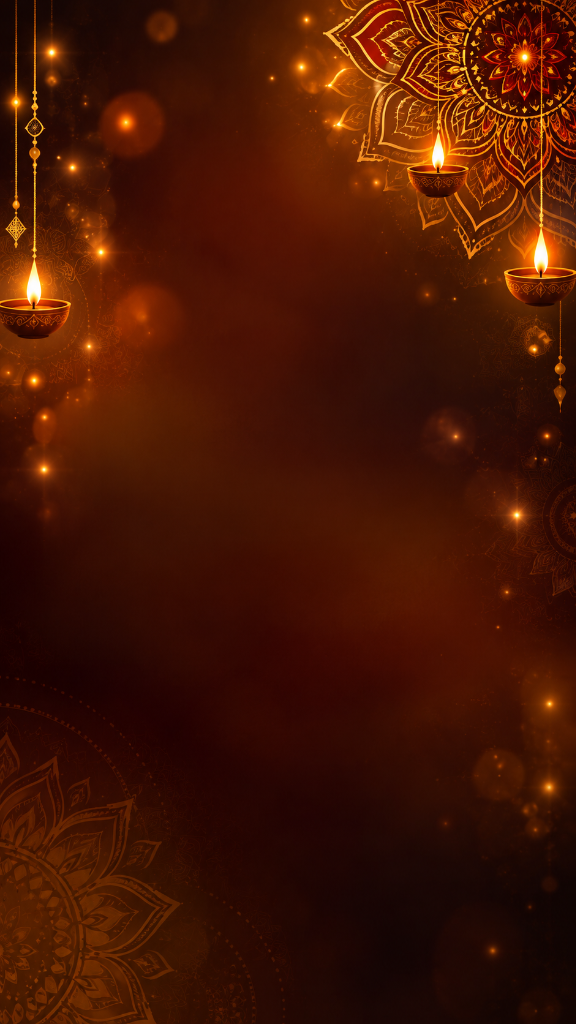
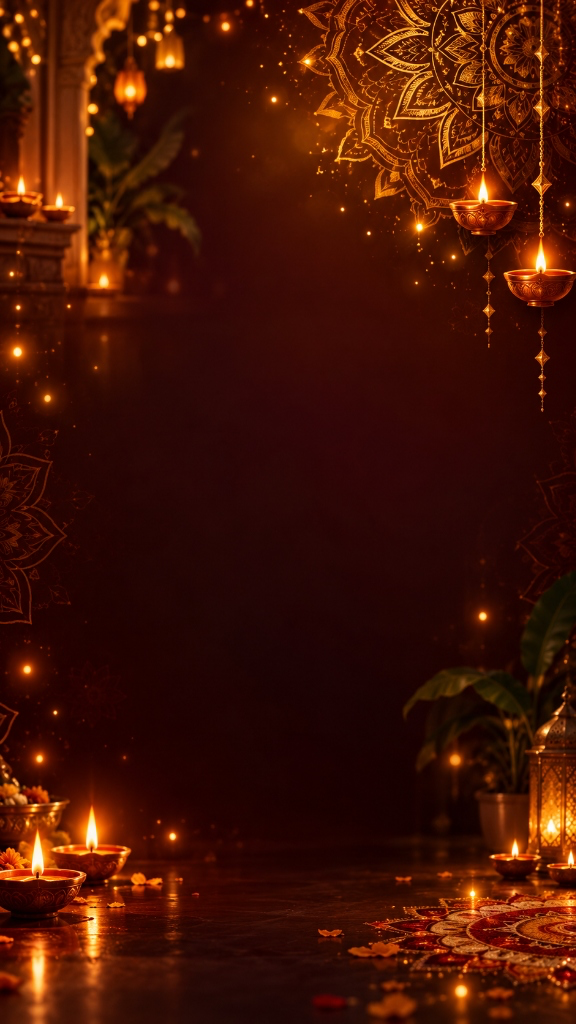
feat(theme-diwali): visual integration of approved Diwali background asset & warm hospitality glass tokens
- Integrate approved high-resolution portrait Diwali background asset (/themes/diwali-bg.jpg)
- Implement custom warm mahogany readability scrim preserving upper hanging diyas/mandala and bottom floor reflections
- Apply dark translucent warm-brown glass tokens with burnished gold/amber accents and clear channel separation
- Refine CTA and button shadows to blend seamlessly with dark warm glass
- Preserve canonical 11-step mobile hierarchy without adding restaurant logos or altering business logic
- Add comprehensive automated integration test suite (diwali-theme-integration.test.tsx) with 100% pass rate

diff --git a/tests/unit/diwali-theme-integration.test.tsx b/tests/unit/diwali-theme-integration.test.tsx
@@ -1,0 +1,250 @@
+import React from 'react';
+import { describe, it, expect } from 'vitest';
+import { renderToStaticMarkup } from 'react-dom/server';
+import fs from 'fs';
+import path from 'path';
+import {
+  THEME_REGISTRY,
+  getRegisteredThemes,
+  resolveCustomerTheme,
+  themeToCssVariables,
+} from '@/lib/themes';
+import { CustomerShell } from '@/components/customer/ui/CustomerShell';
+import { CustomerPlatformBrand } from '@/components/customer/CustomerPlatformBrand';
+import { RestaurantHeader } from '@/components/customer/RestaurantHeader';
+import { QueueStatusCard } from '@/components/customer/QueueStatusCard';
+import { HospitalityFeatureRow } from '@/components/customer/HospitalityFeatureRow';
+import { SignatureDishesCard } from '@/components/customer/SignatureDishesCard';
+import type { PublicRestaurantInfo } from '@/lib/services/public-restaurant-service';
+
+const MOCK_DIWALI_RESTAURANT: PublicRestaurantInfo = {
+  id: '25516c44-9f33-4752-9c05-419633d5ba66',
+  name: 'Biriyani House',
+  slug: 'biriyani-house',
+  description: 'Good Food. Brighter Days.',
+  phone: '+91 98765 43210',
+  address: '12 Park Street',
+  city: 'Kolkata',
+  logoUrl: 'https://example.com/logo.png', // Logo present in DB but MUST NOT be rendered
+  queueEnabled: true,
+  queueOperatingState: 'OPEN',
+  maxQueueCapacity: 50,
+  minPartySize: 1,
+  maxPartySize: 10,
+  callTimeoutMinutes: 5,
+  status: 'ACTIVE',
+  currency: 'INR',
+  avgServiceTimeMins: 15,
+  serviceCapacityUnits: 3,
+  etaBufferMins: 5,
+  takeawayEnabled: true,
+  dineInCustomerOrderingEnabled: true,
+  dineInStaffOrderingEnabled: true,
+  takeawayCustomerOrderingEnabled: true,
+  takeawayStaffOrderingEnabled: true,
+  takeawayManualOrderingEnabled: false,
+  customerThemeKey: 'diwali',
+};
+
+describe('QueueFlow — Diwali Theme Visual Integration', () => {
+  describe('1. Diwali Theme Registration & Token Resolution', () => {
+    it('registers diwali in canonical THEME_REGISTRY', () => {
+      const diwali = THEME_REGISTRY['diwali'];
+      expect(diwali).toBeDefined();
+      expect(diwali!.key).toBe('diwali');
+      expect(diwali!.name).toBe('Diwali');
+    });
+
+    it('resolves diwali theme by key and case-insensitively', () => {
+      const resolved = resolveCustomerTheme('diwali');
+      expect(resolved.key).toBe('diwali');
+
+      const upperResolved = resolveCustomerTheme('DIWALI');
+      expect(upperResolved.key).toBe('diwali');
+
+      const paddedResolved = resolveCustomerTheme('  diwali  ');
+      expect(paddedResolved.key).toBe('diwali');
+    });
+
+    it('defines warm-brown translucent glass surfaces and burnished gold accents', () => {
+      const diwali = resolveCustomerTheme('diwali');
+      const { surfaces, accents, borders, text } = diwali.tokens;
+
+      // Dark translucent warm-brown glass
+      expect(surfaces.background).toBe('#140602');
+      expect(surfaces.surface).toContain('rgba');
+      expect(surfaces.surfaceSolid).toBe('#1c0c05');
+
+      // Warm golden amber CTA
+      expect(accents.primary).toBe('#f59e0b');
+      expect(accents.primaryForeground).toBe('#140602');
+      expect(accents.accentDineIn).toBe('#c2410c');
+      expect(accents.accentTakeaway).toBe('#f59e0b');
+
+      // Burnished gold borders
+      expect(borders.border).toContain('234, 179, 8');
+
+      // High contrast text
+      expect(text.text).toBe('#fff9f0');
+      expect(text.textSecondary).toBe('#edd7be');
+    });
+
+    it('maps all diwali tokens to CSS custom properties (--qf-*)', () => {
+      const diwali = resolveCustomerTheme('diwali');
+      const cssVars = themeToCssVariables(diwali) as Record<string, string>;
+
+      expect(cssVars['--qf-background']).toBe('#140602');
+      expect(cssVars['--qf-primary']).toBe('#f59e0b');
+      expect(cssVars['--qf-primary-foreground']).toBe('#140602');
+      expect(cssVars['--qf-accent-dine-in']).toBe('#c2410c');
+      expect(cssVars['--qf-accent-takeaway']).toBe('#f59e0b');
+      expect(cssVars['--qf-text']).toBe('#fff9f0');
+    });
+  });
+
+  describe('2. Background Asset & Scrim Integration', () => {
+    it('defines local static background asset and custom warm readability scrim', () => {
+      const diwali = resolveCustomerTheme('diwali');
+      expect(diwali.artwork).toBeDefined();
+      expect(diwali.artwork?.backgroundImage).toBe('/themes/diwali-bg.jpg');
+      expect(diwali.artwork?.scrim).toBeDefined();
+      expect(diwali.artwork?.scrim).toContain('linear-gradient');
+      expect(diwali.artwork?.scrim).toContain('rgba(20, 7, 3');
+    });
+
+    it('static background asset exists in public directory and is optimized (< 500KB)', () => {
+      const publicPath = path.join(process.cwd(), 'public', 'themes', 'diwali-bg.jpg');
+      expect(fs.existsSync(publicPath)).toBe(true);
+
+      const stats = fs.statSync(publicPath);
+      expect(stats.size).toBeGreaterThan(50 * 1024); // Non-empty image (> 50KB)
+      expect(stats.size).toBeLessThan(500 * 1024); // Optimized (< 500KB)
+    });
+
+    it('renders background image and scrim as fixed non-blocking layers in CustomerShell', () => {
+      const diwali = resolveCustomerTheme('diwali');
+      const html = renderToStaticMarkup(
+        <CustomerShell theme={diwali}>
+          <div>Diwali Customer Content</div>
+        </CustomerShell>
+      );
+
+      // Background image layer
+      expect(html).toContain('src="/themes/diwali-bg.jpg"');
+      expect(html).toContain('aria-hidden="true"');
+      expect(html).toContain('pointer-events-none');
+      expect(html).toContain('fixed inset-0');
+      expect(html).toContain('object-cover');
+
+      // Scrim layer
+      expect(html).toContain('background:linear-gradient');
+      expect(html).toContain('rgba(20, 7, 3');
+
+      // Content sits above background
+      expect(html).toContain('Diwali Customer Content');
+    });
+  });
+
+  describe('3. Fallback Behavior & Multi-Theme Isolation', () => {
+    it('falls back cleanly to default theme when key is invalid or null', () => {
+      const nullTheme = resolveCustomerTheme(null);
+      expect(nullTheme.key).toBe('default');
+      expect(nullTheme.artwork?.backgroundImage).toBeUndefined();
+
+      const invalidTheme = resolveCustomerTheme('non-existent-theme-xyz');
+      expect(invalidTheme.key).toBe('default');
+    });
+
+    it('CustomerShell renders graceful ambient fallback when background image is absent', () => {
+      const defaultTheme = resolveCustomerTheme('default');
+      const html = renderToStaticMarkup(
+        <CustomerShell theme={defaultTheme}>
+          <div>Default Content</div>
+        </CustomerShell>
+      );
+
+      // No image tag for default theme
+      expect(html).not.toContain('<img');
+      expect(html).toContain('Default Content');
+      expect(html).toContain('qf-bg');
+    });
+
+    it('preserves all other 10 themes in THEME_REGISTRY without modification', () => {
+      const themes = getRegisteredThemes();
+      expect(themes).toHaveLength(11);
+
+      const expectedOtherKeys = [
+        'default',
+        'durga-puja',
+        'kali-puja',
+        'holi',
+        'christmas',
+        'valentines-day',
+        'poila-boishakh',
+        'happy-new-year',
+        'happy-hour',
+        'weekend-special',
+      ];
+
+      for (const key of expectedOtherKeys) {
+        const theme = THEME_REGISTRY[key];
+        expect(theme).toBeDefined();
+        expect(theme!.key).toBe(key);
+      }
+    });
+  });
+
+  describe('4. Canonical Mobile Layout Preservation & Accessibility Invariants', () => {
+    it('renders all canonical components under Diwali theme with NO restaurant logo', () => {
+      const diwali = resolveCustomerTheme('diwali');
+      const html = renderToStaticMarkup(
+        <CustomerShell theme={diwali}>
+          <CustomerPlatformBrand />
+          <RestaurantHeader restaurant={MOCK_DIWALI_RESTAURANT} waitingCount={2} />
+          <QueueStatusCard state="OPEN" waitingCount={2} waitLabel="~15 mins" />
+          <HospitalityFeatureRow />
+          <SignatureDishesCard slug="biriyani-house" categories={[]} />
+        </CustomerShell>
+      );
+
+      // 1. Platform Brand
+      expect(html).toContain('ASSO');
+      expect(html).toContain('QueueFlow');
+
+      // 2. Restaurant Hero
+      expect(html).toContain('Biriyani House');
+      expect(html).toContain('Good Food. Brighter Days.');
+      // Crucial: Restaurant logo must NOT be rendered
+      expect(html).not.toContain('https://example.com/logo.png');
+
+      // 3. Queue Status
+      expect(html).toContain('2 parties waiting in line');
+      expect(html).toContain('Estimated wait: ~15 mins');
+
+      // 4. Feature row
+      expect(html).toContain('Live Updates');
+      expect(html).toContain('Authentic Flavours');
+      expect(html).toContain('Warm Hospitality');
+
+      // 5. Signature Dishes
+      expect(html).toContain('Our Signature Dishes');
+
+      // 6. Footer
+      expect(html).toContain('Food Brings Us Closer');
+      expect(html).toContain('Powered by');
+    });
+
+    it('theme motif has aria-hidden="true" and decorative-only semantics', () => {
+      const diwali = resolveCustomerTheme('diwali');
+      const html = renderToStaticMarkup(
+        <CustomerShell theme={diwali}>
+          <div>Accessible Shell</div>
+        </CustomerShell>
+      );
+
+      expect(html).toContain('data-theme="diwali"');
+      expect(html).toContain('aria-hidden="true"');
+      expect(html).toContain('pointer-events-none');
+    });
+  });
+});

diff --git a/src/lib/themes/definitions/diwali.ts b/src/lib/themes/definitions/diwali.ts
@@ -1,21 +1,23 @@
 import type { CustomerTheme } from '../types';
 
 /**
- * Diwali Festival Theme — Premium Immersive Edition.
+ * Diwali Festival Theme — Premium Hospitality Edition.
  *
  * Visual Direction:
- * Based on the supplied reference image:
- *   - Deep mahogany-burgundy background (#1a0800 family)
- *   - Amber / molten-gold radial glow at centre
- *   - Hanging diya lamps with live flame highlights
- *   - Intricate gold mandala rangoli in corners
- *   - Soft bokeh light particles (amber / ochre)
+ * Based on the approved Diwali reference asset:
+ *   - Deep maroon/mahogany shadow regions (#140602 / #1c0c05)
+ *   - Warm golden lighting & molten brass glow
+ *   - Traditional rangoli / mandala artwork
+ *   - Hanging brass diya lamps & glowing flame highlights
+ *   - Soft bokeh light particles
+ *   - Dark central negative space for UI readability
  *
- * The full-bleed reference photo is applied as the primary background layer.
- * A translucent scrim preserves UI legibility while keeping the artwork visible.
- *
- * Color tokens are derived directly from the image palette so that surfaces,
- * cards, and interactive states all harmonise with the photographic background.
+ * Architecture:
+ * 1. Background: High-resolution optimized portrait asset (/themes/diwali-bg.jpg)
+ * 2. Readability Scrim: Custom warm maroon-tinted gradient preserving decorative edges
+ * 3. Glass Surfaces: Dark translucent warm-brown glass with controlled blur
+ * 4. Accents: Warm burnished gold / amber CTA and status highlights (high contrast, zero neon)
+ * 5. Motif: Subtle rangoli overlay at restrained opacity for secondary surfaces
  */
 export const DIWALI_THEME: CustomerTheme = {
   key: 'diwali',
@@ -24,39 +26,33 @@ export const DIWALI_THEME: CustomerTheme = {
     'Immersive Diwali festival atmosphere — glowing diyas, gold mandala rangoli, and warm amber bokeh set against a deep mahogany backdrop.',
   tokens: {
     surfaces: {
-      // Deep mahogany drawn directly from the image shadow regions
-      background: '#1a0800',
-      backgroundElevated: '#260d02',
-      // Semi-transparent so the photo bleeds through slightly
-      surface: 'rgba(30, 12, 3, 0.82)',
-      surfaceSolid: '#2a0e04',
-      surfaceElevated: 'rgba(42, 18, 5, 0.88)',
-      surfaceInteractive: '#381508',
+      background: '#140602',
+      backgroundElevated: '#1f0a04',
+      surface: 'rgba(26, 11, 5, 0.82)',
+      surfaceSolid: '#1c0c05',
+      surfaceElevated: 'rgba(38, 16, 7, 0.90)',
+      surfaceInteractive: '#341608',
     },
     accents: {
-      // Molten gold / amber — the lamp flame and glow colour
-      primary: '#f5a623',
-      primaryHover: '#e09210',
-      primaryForeground: '#1a0500',
-      primaryGlow: 'rgba(245, 166, 35, 0.30)',
-      // Dine-In: deep burnt orange / diya-flame colour — distinct from amber gold
+      primary: '#f59e0b',
+      primaryHover: '#d97706',
+      primaryForeground: '#140602',
+      primaryGlow: 'rgba(245, 158, 11, 0.20)',
       accentDineIn: '#c2410c',
-      accentDineInGlow: 'rgba(194, 65, 12, 0.25)',
-      // Takeaway: deep amber gold (mandala highlight)
+      accentDineInGlow: 'rgba(194, 65, 12, 0.20)',
       accentTakeaway: '#f59e0b',
-      accentTakeawayGlow: 'rgba(245, 158, 11, 0.28)',
+      accentTakeawayGlow: 'rgba(245, 158, 11, 0.20)',
     },
     text: {
-      // Warm ivory — readable on dark mahogany surfaces
-      text: '#fff8ee',
-      textSecondary: '#f3d5a3',
-      textMuted: '#c49a60',
+      text: '#fff9f0',
+      textSecondary: '#edd7be',
+      textMuted: '#ba9a76',
     },
     borders: {
-      border: 'rgba(245, 166, 35, 0.22)',
-      borderSubtle: 'rgba(245, 166, 35, 0.09)',
-      borderHover: 'rgba(245, 166, 35, 0.40)',
-      borderActive: 'rgba(245, 166, 35, 0.60)',
+      border: 'rgba(234, 179, 8, 0.18)',
+      borderSubtle: 'rgba(234, 179, 8, 0.08)',
+      borderHover: 'rgba(234, 179, 8, 0.36)',
+      borderActive: 'rgba(234, 179, 8, 0.55)',
     },
     status: {
       success: '#22c55e',
@@ -68,24 +64,24 @@ export const DIWALI_THEME: CustomerTheme = {
       radiusMd: '0.875rem',
       radiusLg: '1.25rem',
       radiusXl: '1.5rem',
-      shadowSm: '0 2px 8px rgba(0, 0, 0, 0.50)',
-      shadowMd: '0 8px 24px rgba(0, 0, 0, 0.60)',
-      shadowLg: '0 16px 48px rgba(0, 0, 0, 0.70)',
+      shadowSm: '0 2px 8px rgba(0, 0, 0, 0.45)',
+      shadowMd: '0 8px 24px rgba(0, 0, 0, 0.55)',
+      shadowLg: '0 16px 48px rgba(0, 0, 0, 0.65)',
     },
   },
   metadata: {
     category: 'cultural',
     season: 'Autumn',
     tags: ['diwali', 'festival', 'diya', 'gold', 'rangoli', 'mandala', 'amber', 'mahogany'],
-    previewAccentColor: '#f5a623',
-    previewSurfaceColor: '#2a0e04',
+    previewAccentColor: '#e6a122',
+    previewSurfaceColor: '#1c0c05',
   },
   artwork: {
     motif: 'diwali-rangoli',
-    // The SVG motif is kept at very low opacity — the photo is the visual hero
-    opacity: 0.07,
+    opacity: 0.05,
     placement: 'top-split',
-    // Full-bleed background image: served from Next.js /public static directory
-    backgroundImage: '/themes/diwali-bg.png',
+    backgroundImage: '/themes/diwali-bg.jpg',
+    scrim:
+      'linear-gradient(to bottom, rgba(20, 7, 3, 0.65) 0%, rgba(20, 7, 3, 0.20) 22%, rgba(20, 7, 3, 0.12) 50%, rgba(20, 7, 3, 0.35) 80%, rgba(14, 5, 2, 0.78) 100%)',
   },
 };

diff --git a/src/components/customer/CustomerJoinFlow.tsx b/src/components/customer/CustomerJoinFlow.tsx
@@ -180,7 +180,7 @@ export function CustomerJoinFlow({
             className={`w-full min-h-[54px] h-14 rounded-2xl flex items-center justify-between px-5 font-black text-sm sm:text-base tracking-wide transition-all active:scale-[0.98] cursor-pointer shadow-lg select-none focus-visible:outline-none focus-visible:ring-2 focus-visible:ring-offset-2 focus-visible:ring-offset-[#0b0f19] ${
               isTakeaway
                 ? 'bg-[var(--qf-accent-takeaway)] hover:bg-amber-400 text-slate-950 shadow-amber-500/15 focus-visible:ring-[var(--qf-accent-takeaway)]'
-                : 'bg-[var(--qf-primary)] hover:bg-[var(--qf-primary-hover)] text-[var(--qf-primary-foreground)] shadow-emerald-500/15 focus-visible:ring-[var(--qf-primary)]'
+                : 'bg-[var(--qf-primary)] hover:bg-[var(--qf-primary-hover)] text-[var(--qf-primary-foreground)] shadow-black/25 focus-visible:ring-[var(--qf-primary)]'
             }`}
           >
             <span className="flex items-center gap-2.5">

diff --git a/src/components/customer/ui/CustomerButton.tsx b/src/components/customer/ui/CustomerButton.tsx
@@ -39,7 +39,7 @@ export function CustomerButton({
 
   const variantStyles = {
     primary:
-      'bg-[var(--qf-primary)] hover:bg-[var(--qf-primary-hover)] text-[var(--qf-primary-foreground)] font-black shadow-lg shadow-emerald-500/15 focus-visible:ring-[var(--qf-primary)]',
+      'bg-[var(--qf-primary)] hover:bg-[var(--qf-primary-hover)] text-[var(--qf-primary-foreground)] font-black shadow-lg shadow-black/25 focus-visible:ring-[var(--qf-primary)]',
     takeaway:
       'bg-[var(--qf-accent-takeaway)] hover:opacity-95 text-slate-950 font-black shadow-lg shadow-amber-500/15 focus-visible:ring-[var(--qf-accent-takeaway)]',
     dine_in:
